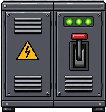
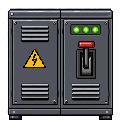
更新地圖和素材圖

diff --git a/js/map-editor.js b/js/map-editor.js
@@ -195,6 +195,9 @@ let brushScale = 100, brushAngle = 0;   // 筆刷的大小（%）、多轉的角
 let tempTool = null, savedBrush = null, pickResult = null;   // Alt=臨時吸管 / Ctrl=臨時選取
 let pickedBrushPending = false;   // 吸管吸到的圖還沒放進地圖：這時按右鍵＝取消這次複製，回到「選取」
 let selectionDrag = null;
+// 拉框選取：用「選取」工具在空白的地方按住拖曳，拉出一個框，框裡的物件全部選起來
+// （按著 Shift 拉框＝加到原本的選取裡）。marquee＝{ x0, y0, x1, y1（畫布像素）, base（拉框前就選好的） }
+let marquee = null, lastSelectHit = false;
 // 物件擺放用「四分之一格」對齊（10px），不用整格整格跳；地板類小圖還是整格
 const SUB = CELL / 4;
 let pointerPx = null;   // 滑鼠目前在畫布上的像素位置
@@ -1512,6 +1515,7 @@ function draw() {
     }
   }
   drawLocateFlash();   // 從圖層物件清單選取時，物件周圍閃一個圈
+  drawMarquee();   // 拉框選取的藍色虛線框
 }
 
 // ================= 可翻轉圖片放置 / 查詢 =================
@@ -1612,7 +1616,8 @@ function paintCell(c, r, isDown, additiveSelect = false) {
         if (existing >= 0) selections.splice(existing, 1); else selections.push(picked);
       }
       selection = selections.length ? selections[selections.length - 1] : null;
-      if (!picked) setStatus('這格沒有可選的物件', '#9aa4b2');
+      lastSelectHit = !!picked && selectionLayer(picked) !== 'floor';   // 點到空白（或只點到地板）：按住拖曳就變成拉框選取
+      if (!picked) setStatus('這格沒有可選的物件（按住拖曳可以拉框選取）', '#9aa4b2');
       else setStatus('已選取 ' + selections.length + ' 個物件' + (additiveSelect ? '（Shift 多選）' : ''), '#ffd479');
       refreshSelPanel(); draw();
     }
@@ -1863,6 +1868,55 @@ function cellFromEvent(e) {
   pointerPx = { x, y };   // 物件擺放、選取用的像素位置
   return cellAt(x, y);
 }
+// ---- 拉框選取 ----
+// 框住的規則：物件（大圖、小圖）整個都在框裡面才算選到，只碰到邊不算（才不會一拉就把大片的牆、建築一起選走）。
+// 「地板」圖層不會被框選（不然整片地板都會選起來）；隱藏或鎖定的圖層也選不到，跟用點的一樣。
+function marqueeRect() {
+  const d = marquee;
+  return { x: Math.min(d.x0, d.x1), y: Math.min(d.y0, d.y1), w: Math.abs(d.x1 - d.x0), h: Math.abs(d.y1 - d.y0) };
+}
+function itemsInMarquee() {
+  const m = curMap(), box = marqueeRect(), picked = [];
+  const inside = (x, y, w, h) => x >= box.x - 0.5 && y >= box.y - 0.5 && x + w <= box.x + box.w + 0.5 && y + h <= box.y + box.h + 0.5;
+  const canPick = lid => lid !== 'floor' && !hiddenLayers.has(lid) && !isLockedLayer(lid);
+  // 小圖：照圖層由下到上
+  for (const l of LAYERS) {
+    if (!canPick(l.id)) continue;
+    for (const key of Object.keys(m.layers[l.id] || {})) {
+      if (!m.layers[l.id][key]) continue;
+      const [c, r] = key.split(',').map(Number);
+      if (inside(OX + c * CELL, OY + r * CELL, CELL, CELL)) picked.push({ type: 'tile', layer: l.id, key });
+    }
+  }
+  // 大圖（物件）：用畫出來的位置（含微調）
+  m.stamps.forEach((s, i) => {
+    if (!canPick(s.layer || 'top')) return;
+    const t = tileById(s.id) || {};
+    if (inside(OX + s.c * CELL + (s.ox || 0), OY + s.r * CELL + (s.oy || 0), stampW(s, t) * CELL, stampH(s, t) * CELL)) picked.push({ type: 'stamp', index: i });
+  });
+  return picked;
+}
+function updateMarquee() {
+  if (!marquee || !pointerPx) return;
+  marquee.x1 = pointerPx.x; marquee.y1 = pointerPx.y;
+  const box = marqueeRect();
+  if (!marquee.moved && box.w < 4 && box.h < 4) return;   // 只動一點點：還當成「點一下」（點地板＝選那格地板）
+  marquee.moved = true;
+  const seen = new Set(marquee.base.map(selectionId));
+  selections = marquee.base.slice();
+  for (const sel of itemsInMarquee()) if (!seen.has(selectionId(sel))) { seen.add(selectionId(sel)); selections.push(sel); }
+  selection = selections.length ? selections[selections.length - 1] : null;
+  setStatus('拉框選取中：' + selections.length + ' 個物件', '#8fd3ff');
+  draw();
+}
+function drawMarquee() {   // 在 draw() 最後畫出藍色虛線框
+  if (!marquee || !marquee.moved) return;
+  const b = marqueeRect();
+  ctx.save();
+  ctx.fillStyle = 'rgba(120,190,255,.15)'; ctx.fillRect(b.x, b.y, b.w, b.h);
+  ctx.strokeStyle = '#8fd3ff'; ctx.lineWidth = 2; ctx.setLineDash([6, 4]); ctx.strokeRect(b.x + 1, b.y + 1, b.w - 2, b.h - 2);
+  ctx.restore();
+}
 function beginSelectionDrag(c, r) {
   if (brush.mode !== 'select' || !selections.length) { selectionDrag = null; return; }
   if (selections.some(sel => isLockedLayer(selectionLayer(sel)))) {   // 鎖定圖層上的物件不能拖
@@ -1924,13 +1978,19 @@ cv.addEventListener('pointerdown', e => {
   playMapClickSound(); painting = true; cv.setPointerCapture(e.pointerId); pushUndo();
   const [c, r] = cellFromEvent(e); lastPaint = c + ',' + r;
   if (brush.mode === 'solidnudge' && !e.shiftKey && beginNudgeDrag()) return;   // 按在已選中的紅格／線上：拖曳移動，不重新選
+  lastSelectHit = false;
   paintCell(c, r, true, e.shiftKey);
+  if (brush.mode === 'select' && !lastSelectHit && pointerPx) {   // 按在空白的地方：開始拉框（Shift＝加到原本的選取）
+    marquee = { x0: pointerPx.x, y0: pointerPx.y, x1: pointerPx.x, y1: pointerPx.y, base: e.shiftKey ? selections.slice() : [], moved: false };
+    selectionDrag = null; return;
+  }
   if (!e.shiftKey) beginSelectionDrag(c, r);
 });
 cv.addEventListener('pointermove', e => {
   const [c, r] = cellFromEvent(e); hoverCell = inGrid(c, r) ? [c, r] : null;
   if (painting) {
     if (nudgeDrag) dragNudgeTo();
+    else if (marquee) updateMarquee();
     else if (selectionDrag) dragSelectionTo(c, r);
     else { const key = c + ',' + r; if (key !== lastPaint) { lastPaint = key; paintCell(c, r, false); } }
   } else draw();   // 懸停預覽跟著四分之一格移動
@@ -1940,6 +2000,11 @@ cv.addEventListener('pointerup', () => {
   if (nudgeDrag) { if (nudgeDrag.moved) saveMaps(); nudgeDrag = null; }   // 碰撞微調拖曳放開：存起來
   if (selectionDrag && selectionDrag.moved) { saveMaps(); refreshSelPanel(); setStatus('已移動 ' + selections.length + ' 個物件', '#7ee0c0'); }
   selectionDrag = null;
+  if (marquee) {   // 拉框放開：告訴使用者選到幾個，右邊面板跟著更新
+    const was = marquee; marquee = null;
+    if (was.moved) setStatus(selections.length ? '已框選 ' + selections.length + ' 個物件（可以一起拖曳、方向鍵移動、Delete 刪除、Ctrl+C 複製）' : '框裡沒有可選的物件', selections.length ? '#ffd479' : '#9aa4b2');
+    refreshSelPanel(); draw();
+  }
   if (undoStack.length && undoStack[undoStack.length - 1] === snapshot()) undoStack.pop();
 });
 cv.addEventListener('pointerleave', () => { hoverCell = null; draw(); });

diff --git a/地圖編輯器.html b/地圖編輯器.html
@@ -220,7 +220,7 @@
   <script src="js/map-picker.js?v=mappicker-20261024"></script>   <!-- 設出入口時選地圖的清單（取代 prompt，地圖多也不會被截斷） -->
   <script src="js/project-save.js?v=filewarn-20261026"></script>   <!-- 一鍵存到專案（所有編輯器共用） -->
   <script src="js/map-editor-store.js?v=assetmove-20261106"></script>   <!-- 地圖暫存放在瀏覽器資料庫（地圖編輯器自己的） -->
-  <script>EditorStore.boot(["js/stamp-transform.js?v=stampscale-20261105", "js/map-editor.js?v=delin-20261110", "js/map-editor-transform.js?v=onebar-20261106", "js/map-editor-save.js?v=sharedtiles-20261020", "js/map-editor-copy.js?v=copy-20261021", "js/asset-finder.js?v=finder2-20261026"]);</script>   <!-- 等資料庫讀好再載入編輯器 -->
+  <script>EditorStore.boot(["js/stamp-transform.js?v=stampscale-20261105", "js/map-editor.js?v=marquee2-20261110", "js/map-editor-transform.js?v=onebar-20261106", "js/map-editor-save.js?v=sharedtiles-20261020", "js/map-editor-copy.js?v=copy-20261021", "js/asset-finder.js?v=finder2-20261026"]);</script>   <!-- 等資料庫讀好再載入編輯器 -->
   <script src="js/preview-mute.js?v=pmute-20261026"></script>   <!-- 「▶ 預覽遊戲」視窗的背景音開關 -->
   <script src="js/editor-nav.js?v=navfold-20261026"></script>   <!-- 最上方的編輯器入口（所有編輯器共用） -->
 </body>

diff --git a/data/story-maps.js b/data/story-maps.js
@@ -32479,7 +32479,72 @@ const STORY_MAPS = [
         "ox": 8
       }
     ],
-    "solid": [],
+    "solid": [
+      "10,0",
+      "10,1",
+      "10,2",
+      "10,3",
+      "10,4",
+      "10,5",
+      "10,6",
+      "10,7",
+      "10,8",
+      "9,8",
+      "9,7",
+      "9,6",
+      "9,5",
+      "9,4",
+      "9,3",
+      "9,2",
+      "9,1",
+      "9,0",
+      "8,0",
+      "7,0",
+      "6,0",
+      "5,0",
+      "4,0",
+      "3,0",
+      "2,0",
+      "1,0",
+      "0,0",
+      "0,1",
+      "0,2",
+      "0,3",
+      "0,4",
+      "0,5",
+      "0,6",
+      "0,7",
+      "0,8",
+      "4,8",
+      "5,8",
+      "6,8",
+      "7,8",
+      "8,8",
+      "6,2",
+      "5,2",
+      "4,2",
+      "4,1",
+      "5,1",
+      "6,1",
+      "7,1",
+      "8,1",
+      "7,2",
+      "8,2",
+      "3,1",
+      "2,1",
+      "1,1",
+      "3,2",
+      "2,2",
+      "1,2",
+      "1,3",
+      "1,4",
+      "1,5",
+      "1,6",
+      "1,7",
+      "1,8",
+      "5,3",
+      "8,4"
+    ],
     "breakable": [],
     "coreSpots": [],
     "spawnZone": [],

diff --git a/劇情地圖編輯器.html b/劇情地圖編輯器.html
@@ -227,7 +227,7 @@
     };
   </script>
   <script src="js/map-editor-store.js?v=assetmove-20261106"></script>   <!-- 劇情地圖自己的暫存；素材暫存仍與其他編輯器共用 -->
-  <script>EditorStore.boot(["js/stamp-transform.js?v=stampscale-20261105", "js/map-editor.js?v=delin-20261110", "js/map-editor-transform.js?v=onebar-20261106", "js/map-editor-save.js?v=story-20261021", "js/map-editor-copy.js?v=copy-20261021", "js/asset-finder.js?v=finder2-20261026"]);</script>
+  <script>EditorStore.boot(["js/stamp-transform.js?v=stampscale-20261105", "js/map-editor.js?v=marquee2-20261110", "js/map-editor-transform.js?v=onebar-20261106", "js/map-editor-save.js?v=story-20261021", "js/map-editor-copy.js?v=copy-20261021", "js/asset-finder.js?v=finder2-20261026"]);</script>
   <script src="js/preview-mute.js?v=pmute-20261026"></script>   <!-- 「▶ 預覽遊戲」視窗的背景音開關 -->
   <script src="js/editor-nav.js?v=navfold-20261026"></script>   <!-- 最上方的編輯器入口（所有編輯器共用） -->
 </body>
